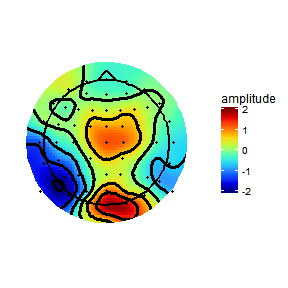
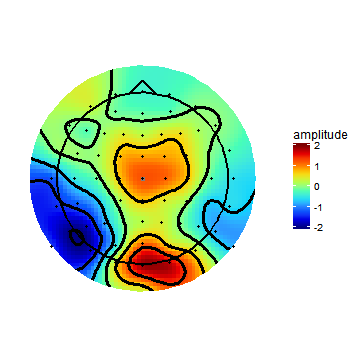
Made the first topography slightly larger

Changed region(s): [[0.0625, 0.1562, 0.7188, 0.8125], [0.75, 0.3125, 0.9688, 0.6875]]

diff --git a/_posts/2017-03-02-EEG-topographyColorMaps.md b/_posts/2017-03-02-EEG-topographyColorMaps.md
@@ -25,7 +25,7 @@ Some key points:
 
 If you're still not convinced, even Matlab changed their default from 'jet' to 'parula' in version 2014b, which was news to me as I am stuck with 2012b.
 
-Here's the plot from the last post in all its glory.
+Here's the topography from the last post in all its glory:
 
 <img src="/figure/source/2017-03-02-EEG-topographyColorMaps/loadPackages-1.png" title="plot of chunk loadPackages" alt="plot of chunk loadPackages" style="display: block; margin: auto;" />
 
@@ -172,5 +172,5 @@ The trick is in this code:
                )
 ```
 
-*stat_contour* creates a new data frame internally which splits the data into bins. This new dataframe has a column "level", which is the value of each bin edge. Columns can be accessed using ..[column name].., so I simply check if the level is less than 0, which sets the linetype to different numbers for bins >=0 than for bins <0.
+*stat_contour* creates a new data frame internally which splits the data into bins. This new dataframe has a column "level", which is the value of each bin edge. Columns from internally generated dataframes can be accessed using ..[column name].., so I simply check if the level is less than 0, which sets the linetype to different numbers for bins >=0 than for bins <0.
 
